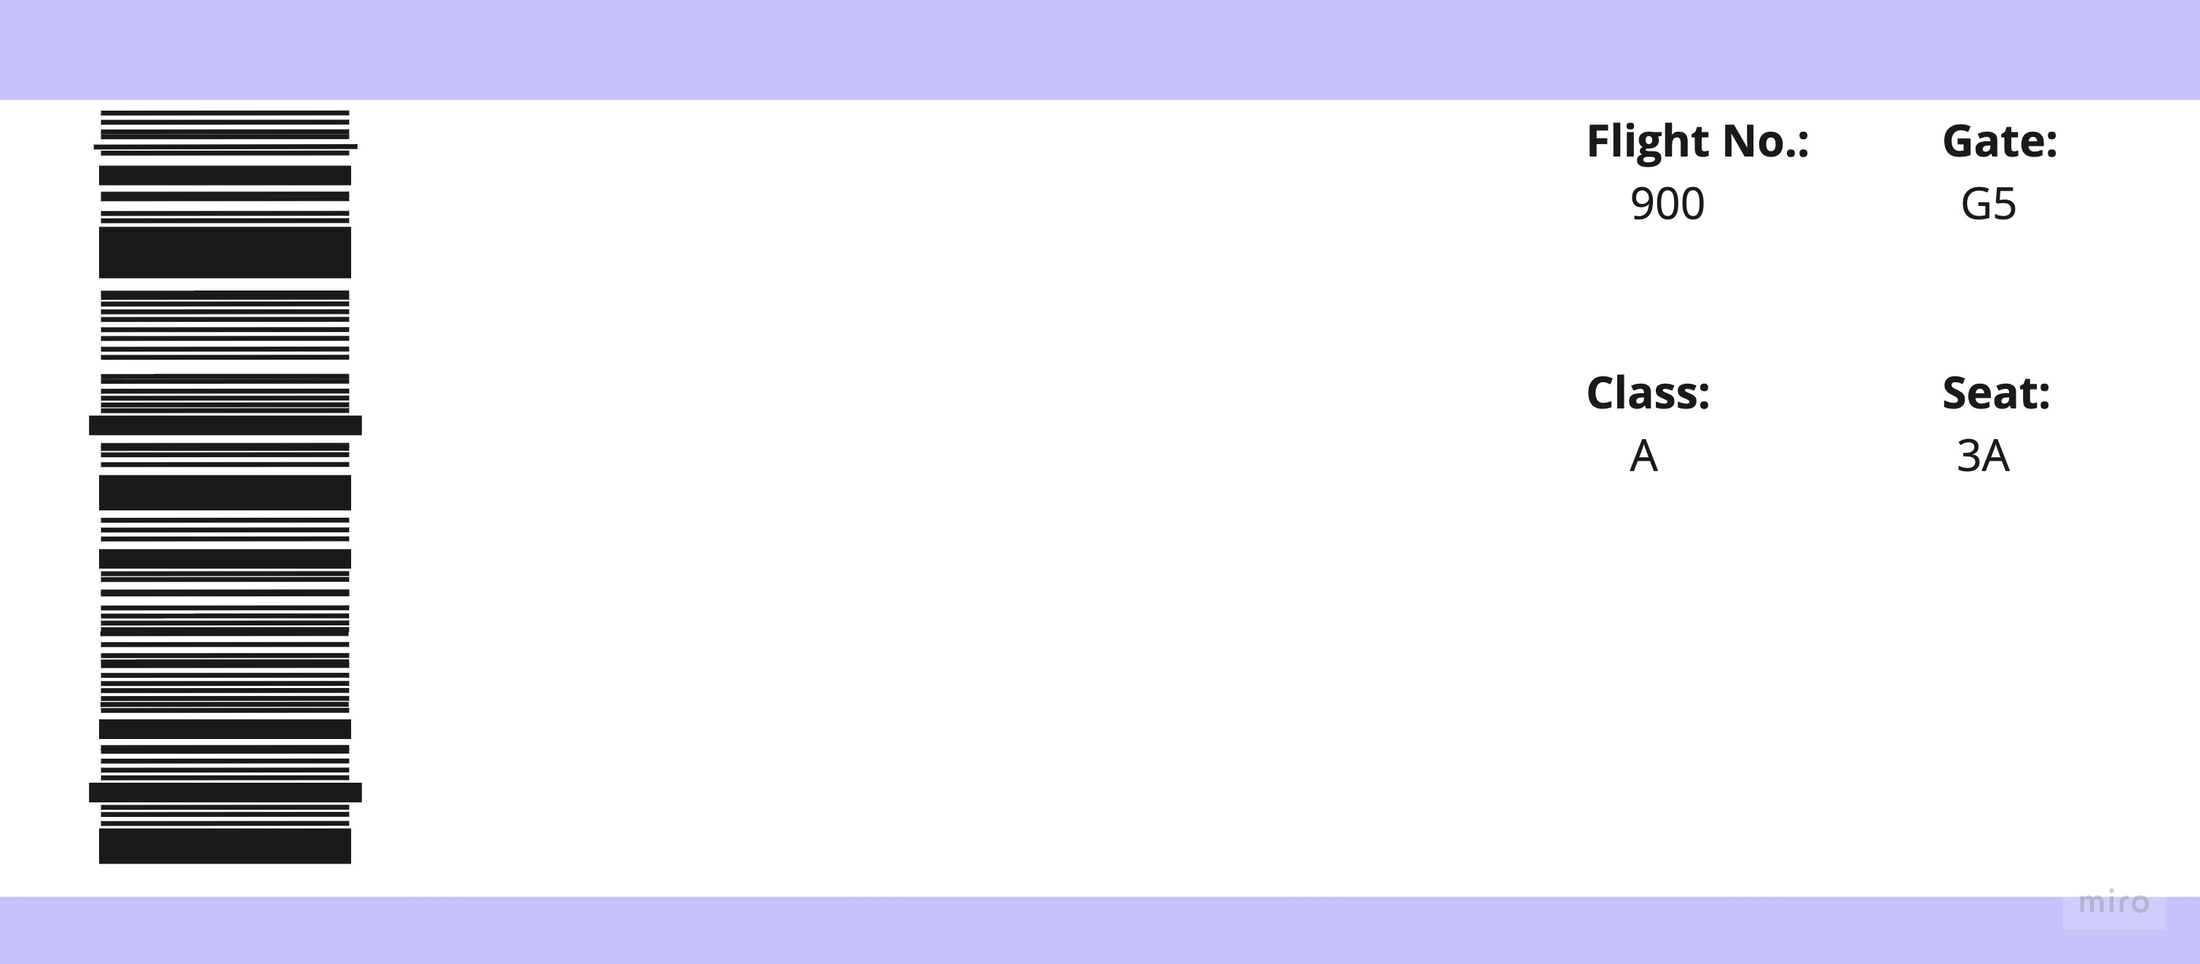
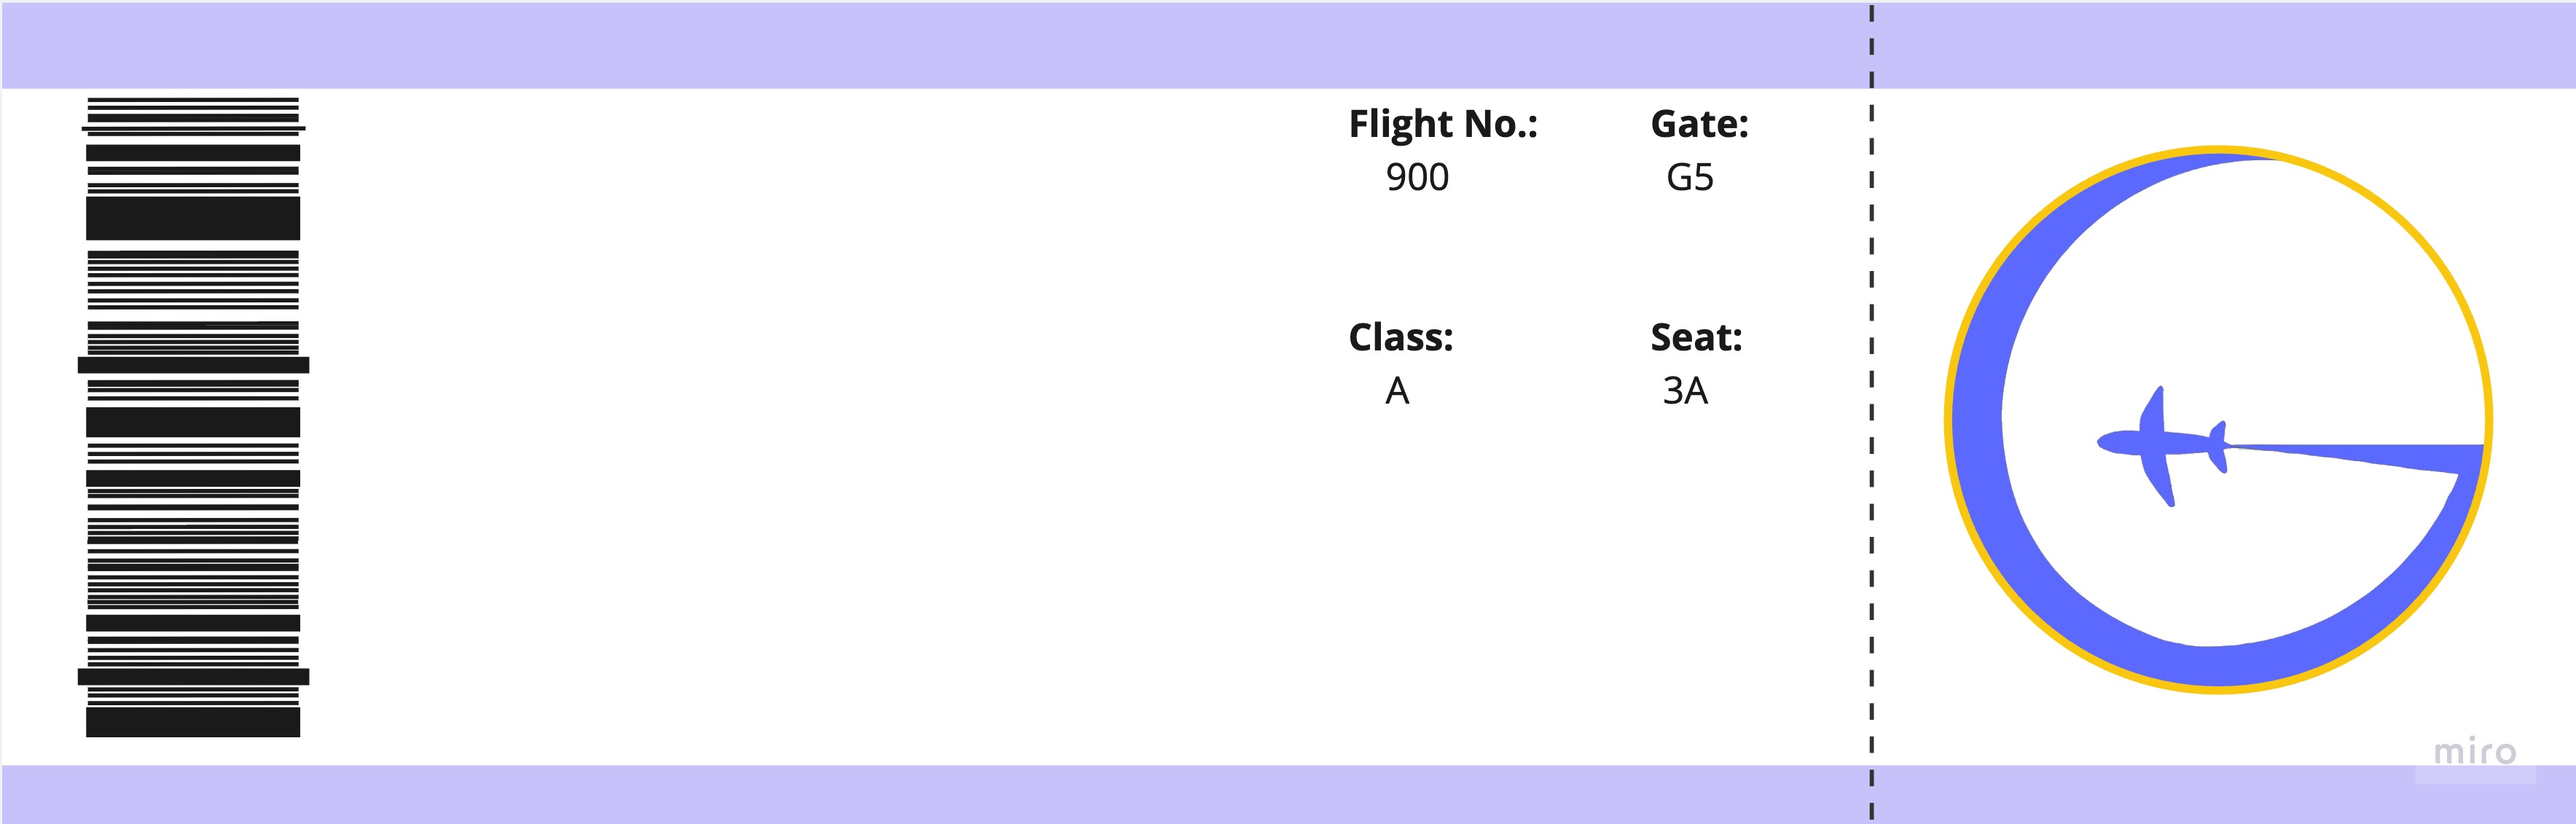
log in officially done

diff --git a/main_app/templates/auth/login_form.html b/main_app/templates/auth/login_form.html
@@ -15,13 +15,13 @@
   }
 
   label {
-    margin: 10px 0px 0px 110px;
+    margin: 10px 0px 0px 90px;
   }
 
   #id_username,
   #id_password {
-    width: 350px;
-    margin-left: 110px;
+    width: 330px;
+    margin-left: 90px;
     padding: 0px 12px;
   }
 </style>
@@ -35,7 +35,7 @@
   <div class="row justify-content-center" style="height: 290px;">
     <div class="card mt-0 ticket">
       <!-- prettier-ignore -->
-      <div class="card-body" style="max-height: 70vh; overflow-y: auto;">
+      <div class="card-body" style="max-height: 70vh; overflow-y: auto; padding: 18px 16px 16px 16px;">
           <form method="POST" action="{% url 'login' %}">
             {% csrf_token %}
             <div class="form-group">
@@ -62,7 +62,7 @@
               {% endif %}
             </div>
             <div class="text-center">
-                <button type="submit" class="btn btn-purple btn-long mt-4">Log In</button>
+                <button type="submit" class="btn btn-purple btn-long mt-5">Log In</button>
             </div>
           </form>
           <div class="text-center mt-3">

diff --git a/main_app/static/css/style.css b/main_app/static/css/style.css
@@ -14,7 +14,7 @@ body {
 
 /* auth page styles */
 .ticket {
-  width: 700px;
+  width: 900px;
   border-radius: 10px;
 }
 

diff --git a/README.md b/README.md
@@ -1,0 +1,25 @@
+# Globetrotter
+Screenshots
+https://i.imgur.com/Fp4DZtb.png
+https://i.imgur.com/TOE1aAZ.png
+https://i.imgur.com/3LuhYPh.png
+
+## Technologies Used:
+Django
+Python
+PostgreSQL
+Bootstrap
+DTL
+HTML
+CSS
+JavaScript
+
+## Getting Started
+https://globetrotter.fly.dev/
+Trello:https://trello.com/b/lnrp3fqi/django-travel-app
+Pitch deck: https://docs.google.com/presentation/d/1rERXrdtyDyjs3DcEpaveyDByXaEUqJnCtIYF-ThvzQo/edit#slide=id.g275b707c140_4_643
+
+## Future Enhancements
+Implementing map API
+Making functional "print" button
+
